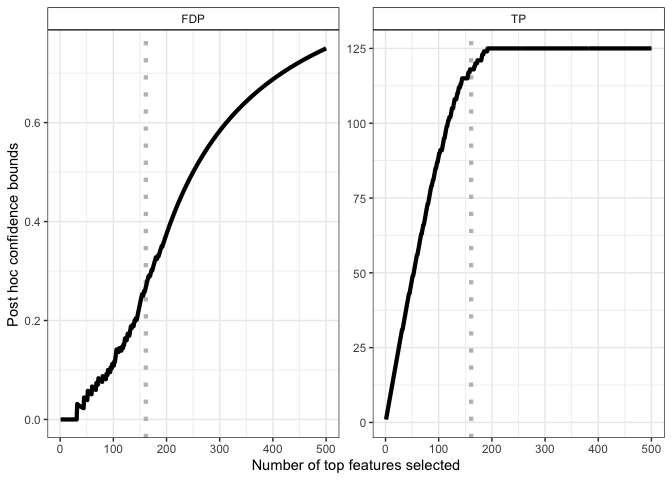
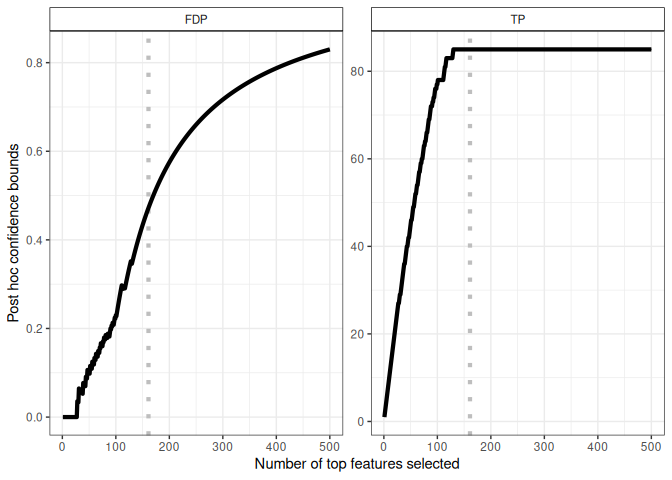
* fix URLs in README (issue 141) * minor updates in vignettes * update doc

diff --git a/README.md b/README.md
@@ -3,12 +3,9 @@
 
 <!-- badges: start -->
 
-[![R build
-status](https://github.com/sanssouci-org/sanssouci/workflows/R-CMD-check/badge.svg)](https://github.com/sanssouci-org/sanssouci/actions)
 [![Coverage
 Status](https://codecov.io/gh/sanssouci-org/sanssouci/branch/develop/graph/badge.svg)](https://codecov.io/github/sanssouci-org/sanssouci/branch/develop)
 [![R-CMD-check](https://github.com/sanssouci-org/sanssouci/actions/workflows/R-CMD-check.yaml/badge.svg)](https://github.com/sanssouci-org/sanssouci/actions/workflows/R-CMD-check.yaml)
-[![SWH](https://archive.softwareheritage.org/badge/origin/https://github.com/sanssouci-org/sanssouci/)](https://archive.softwareheritage.org/browse/origin/?origin_url=https://github.com/sanssouci-org/sanssouci)
 <!-- badges: end -->
 
 The goal of sanssouci \[sãsusi\] is to perform **post hoc inference**:
@@ -19,12 +16,13 @@ Typical use cases include:
 
 - **Differential gene expression (DGE) studies in genomics**:
   - see vignettes dedicated to [microarray
-    data](articles/post-hoc_differential-expression.html) and [RNAseq
-    data](articles/post-hoc_differential-expression_RNAseq.html)
+    data](https://sanssouci-org.github.io/sanssouci//articles/post-hoc_differential-expression.html)
+    and [RNAseq
+    data](https://sanssouci-org.github.io/sanssouci//articles/post-hoc_differential-expression_RNAseq.html)
   - run [volcano plot shiny
     app](https://shiny-iidea-sanssouci.apps.math.cnrs.fr/)
 - **fMRI studies in neuroimaging**: see [fMRI
-  vignette](articles/post-hoc_fMRI.html).
+  vignette](https://sanssouci-org.github.io/sanssouci//articles/post-hoc_fMRI.html).
 
 In both cases, the permutation-based post hoc inference methods
 implemented in the `sanssouci` package outperform classical post hoc
@@ -34,10 +32,10 @@ bounds based on probabilistic inequalities.
 
 We briefly illustrate the case of differential gene expression study
 (see dedicated
-[vignette](articles/post-hoc_differential-expression.html) for more
-information). We start by creating an object of class `sanssouci` from
-gene expression data available from the
-[sanssouci.data](https://github.com/sanssouci-rog/sanssouci.data)
+[vignette](https://sanssouci-org.github.io/sanssouci//articles/post-hoc_differential-expression.html)
+for more information). We start by creating an object of class
+`sanssouci` from gene expression data available from the
+[sanssouci.data](https://github.com/sanssouci-org/sanssouci.data)
 package,
 
 ``` r
@@ -52,7 +50,7 @@ Then we fit the method by with `B=1000` permutations, and with a target
 risk `alpha = 0.1`.
 
 ``` r
-res <- fit(obj, alpha = 0.1, B = 1000)
+res <- fit(obj, alpha = 0.1, B = 0)
 ```
 
 ### Output 1 - Post hoc bound for a subset of genes
@@ -63,14 +61,14 @@ $10^{-3}$.
 ``` r
 S <- which(pValues(res) < 1e-3)
 predict(res, S)
-#>          TP         FDP 
-#> 118.0000000   0.2670807
+#>         TP        FDP 
+#> 85.0000000  0.4720497
 ```
 
 The method ensures with $1-\alpha = 90\%$ confidence that there are at
-least 118 truly differentially expressed genes (true positives, TP)
-among these 161 genes, corresponding to a false discovery proportion
-(FDP) less than 0.27.
+least 85 truly differentially expressed genes (true positives, TP) among
+these 161 genes, corresponding to a false discovery proportion (FDP)
+less than 0.48.
 
 ### Output 2 - Confidence curves for “top-k” feature lists
 
@@ -83,15 +81,18 @@ library("ggplot2")
 plot(res, xmax = 500) +
   geom_vline(xintercept = length(S), 
              color = "gray", linetype = "dotted", size = 1.5) +
-  geom_line(size = 1.5)
+  geom_line(linewidth = 1.5)
 #> Warning: Using `size` aesthetic for lines was deprecated in ggplot2 3.4.0.
 #> ℹ Please use `linewidth` instead.
-#> This warning is displayed once every 8 hours.
+#> This warning is displayed once per session.
 #> Call `lifecycle::last_lifecycle_warnings()` to see where this warning was
 #> generated.
+#> Ignoring unknown labels:
+#> • colour : "Contrast"
+#> • linetype : "Contrast"
 ```
 
-<img src="man/figures/README-conf-curve-1.png" width="100%" />
+<img src="man/figures/README-conf-curve-1.png" alt="" width="100%" />
 
 ### Output 3 - Volcano plots
 
@@ -104,7 +105,7 @@ represented by volcano plots:
 volcanoPlot(res, q = 0.05, r = 0.3, ylim = c(0, 6))
 ```
 
-<img src="man/figures/README-volcano-plot-1.png" width="100%" />
+<img src="man/figures/README-volcano-plot-1.png" alt="" width="100%" />
 
 Importantly, multiple such selections can be made without compromising
 the validity of the bounds. The [IIDEA shiny
